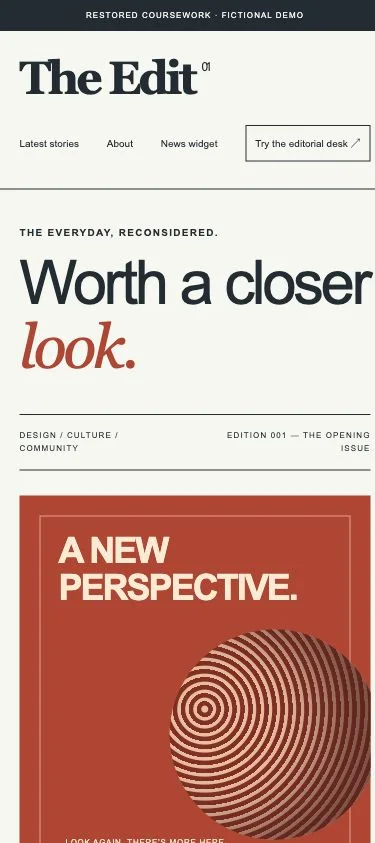
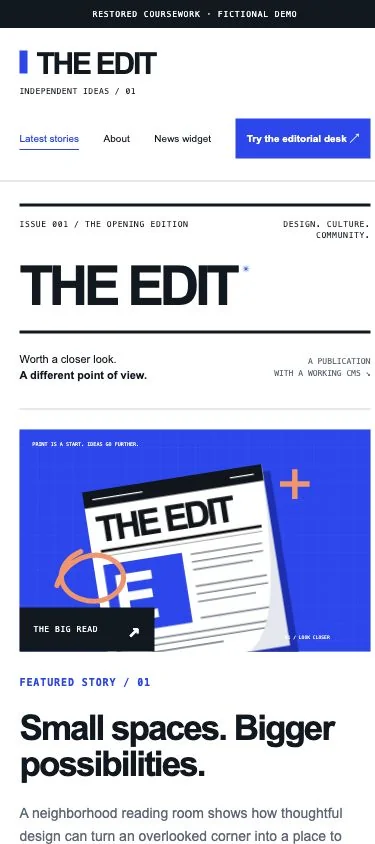
Refresh five project case studies with distinct designs and live screenshots (#19)

diff --git a/src/content/projects/grade-lab.md b/src/content/projects/grade-lab.md
@@ -1,9 +1,9 @@
 ---
-title: "Grade Lab"
-description: "An Angular GPA calculator with a bold academic dashboard and clear course management."
+title: 'Grade Lab'
+description: 'An Angular GPA calculator with a bold academic dashboard and clear course management.'
 category: 'Web app'
 builtWithAI: true
-tags: ["Angular", "TypeScript", "Forms"]
+tags: ['Angular', 'TypeScript', 'Forms']
 year: 2026
 order: 18
 status: 'Live'
@@ -11,28 +11,30 @@ visual: 'web'
 repository: 'https://github.com/GrimSyntaxCloud/angular-showcase'
 demo: 'https://grimsyntaxcloud.github.io/angular-showcase/grade-lab/'
 image: 'images/projects/grade-lab-home.webp'
-imageAlt: "Grade Lab with cobalt navigation, citrus accents and a course table showing a calculated GPA."
+imageAlt: 'Grade Lab with a forest-green navigation rail, a sage GPA dial, orange accents and a course ledger.'
 imageFit: 'contain'
 screenshots:
   - src: 'images/projects/grade-lab-home.webp'
-    alt: "Grade Lab with cobalt navigation, citrus accents and a course table showing a calculated GPA."
-    caption: 'The refreshed desktop interface preserves the original project workflow.'
-    width: 1265
-    height: 1408
+    alt: 'Grade Lab with a forest-green navigation rail, a sage GPA dial, orange accents and a course ledger.'
+    caption: 'The course ledger and calculated GPA share a structured academic workspace.'
+    width: 1600
+    height: 1352
   - src: 'images/projects/grade-lab-mobile.webp'
-    alt: "Grade Lab on a narrow mobile screen."
+    alt: 'Grade Lab on a narrow mobile screen.'
     caption: 'The opening mobile view, checked for readable content and controls that fit.'
     width: 375
-    height: 843
+    height: 844
 ---
 
 ## The project
 
-Grade Lab gives my Angular GPA-calculator coursework a cobalt-and-citrus academic dashboard. It keeps the original workflow: enter a demo student ID, add courses and grades, calculate a GPA, and clear or remove entries.
+Grade Lab gives my Angular GPA-calculator coursework a forest-green academic dashboard. A persistent navigation rail, a porcelain course ledger and a sage GPA dial separate course entry from the calculated result. Orange marks and short dial transitions add movement without distracting from the numbers. It keeps the original workflow: enter a demo student ID, add courses and grades, calculate a GPA, and clear or remove entries.
 
 Try a fictional student ID from **1007 through 1012**. These IDs open the demo; they are not secure student accounts and do not connect to a school system.
 
 ## How it works
+
+The dial reflects the same calculated result as the numeric GPA. Native CSS effects respect reduced-motion preferences, and system typography avoids external font services.
 
 The calculation uses the original equal-weight grade scale, rather than credit-hour weighting. The recovery fixed the missing C grade, tightened student-ID validation and added clearer input feedback. A B+ remains 3.33 and a C is 2.00.
 

diff --git a/src/content/projects/meme-press.md b/src/content/projects/meme-press.md
@@ -1,9 +1,9 @@
 ---
-title: "Meme Press"
-description: "A playful browser-based image workshop with live captions and downloadable memes."
+title: 'Meme Press'
+description: 'A playful browser-based image workshop with live captions and downloadable memes.'
 category: 'Web app'
 builtWithAI: true
-tags: ["JavaScript", "Canvas", "Accessible UI"]
+tags: ['JavaScript', 'Canvas', 'Accessible UI']
 year: 2026
 order: 15
 status: 'Live'
@@ -11,28 +11,30 @@ visual: 'web'
 repository: 'https://github.com/GrimSyntaxCloud/javascript-showcase'
 demo: 'https://grimsyntaxcloud.github.io/javascript-showcase/meme-press/'
 image: 'images/projects/meme-press-home.webp'
-imageAlt: "Meme Press in cream, ink, yellow and coral with a live caption canvas."
+imageAlt: 'Meme Press in hot pink and ink, with a full-width print bed, tilted image proof and three editing stations.'
 imageFit: 'contain'
 screenshots:
   - src: 'images/projects/meme-press-home.webp'
-    alt: "Meme Press in cream, ink, yellow and coral with a live caption canvas."
-    caption: 'The refreshed desktop interface preserves the original project workflow.'
-    width: 1265
-    height: 1309
+    alt: 'Meme Press in hot pink and ink, with a full-width print bed, tilted image proof and three editing stations.'
+    caption: 'A digital print shop: the image takes center stage above three numbered editing stations.'
+    width: 1392
+    height: 1600
   - src: 'images/projects/meme-press-mobile.webp'
-    alt: "Meme Press on a narrow mobile screen."
+    alt: 'Meme Press on a narrow mobile screen.'
     caption: 'The opening mobile view, checked for readable content and controls that fit.'
     width: 375
-    height: 843
+    height: 844
 ---
 
 ## The project
 
-Meme Press started as my JavaScript meme-creator coursework. The refreshed version gives that small creative tool a print-workshop identity: bold type, bright yellow controls, coral accents and an image canvas at the center.
+Meme Press started as my JavaScript meme-creator coursework. The redesigned tool feels like an independent internet print shop. Hot pink and ink surround a full-width press bed, a tilted paper proof and three numbered editing stations. An original SVG smile, registration marks and an acid-green export button give it a playful personality.
 
 Choose a local JPEG, PNG or WebP, add captions, adjust the text size and download a PNG. Images stay in your browser; there is no upload service, account or API key.
 
 ## How it works
+
+Short paper-arrival and hover effects respect reduced-motion preferences. The design uses native CSS, SVG and system fonts, with no additional libraries or asset subscriptions.
 
 Canvas draws the selected image and wraps captions to fit. Image validation and output-size limits keep the workflow predictable. Downloads use a real PNG Blob, and the sample illustration is made with code rather than a paid image asset.
 

diff --git a/src/content/projects/opus.md b/src/content/projects/opus.md
@@ -1,9 +1,9 @@
 ---
-title: "Opus"
-description: "An Angular composer directory presented as a contemporary concert program."
+title: 'Opus'
+description: 'An Angular composer directory presented as a contemporary concert program.'
 category: 'Web app'
 builtWithAI: true
-tags: ["Angular", "TypeScript", "Reactive search"]
+tags: ['Angular', 'TypeScript', 'Reactive search']
 year: 2026
 order: 19
 status: 'Live'
@@ -11,28 +11,30 @@ visual: 'web'
 repository: 'https://github.com/GrimSyntaxCloud/angular-showcase'
 demo: 'https://grimsyntaxcloud.github.io/angular-showcase/opus/'
 image: 'images/projects/opus-home.webp'
-imageAlt: "Opus composer directory in plum, ivory and gold with a concert-program layout."
+imageAlt: 'Opus with a black-cherry stage, oversized ivory masthead, chartreuse accents and numbered composer program listings.'
 imageFit: 'contain'
 screenshots:
   - src: 'images/projects/opus-home.webp'
-    alt: "Opus composer directory in plum, ivory and gold with a concert-program layout."
-    caption: 'The refreshed desktop interface preserves the original project workflow.'
-    width: 931
-    height: 1600
+    alt: 'Opus with a black-cherry stage, oversized ivory masthead, chartreuse accents and numbered composer program listings.'
+    caption: 'A theatrical opening leads into a numbered composer program and a dedicated search rail.'
+    width: 1600
+    height: 739
   - src: 'images/projects/opus-mobile.webp'
-    alt: "Opus on a narrow mobile screen."
+    alt: 'Opus on a narrow mobile screen.'
     caption: 'The opening mobile view, checked for readable content and controls that fit.'
     width: 375
-    height: 843
+    height: 844
 ---
 
 ## The project
 
-Opus brings a concert-program identity to my Angular composer-directory exercise. Plum, ivory and gold, fine rules and CSS waveform details frame the original five-composer collection.
+Opus turns my Angular composer-directory exercise into a theatrical concert playbill. An oversized ivory masthead sits on a black-cherry stage, crossed by musical staff lines and chartreuse accents. Below, a narrow search rail accompanies a sequence of numbered composer listings, giving the original five-composer collection room to breathe.
 
 Search the directory and open an individual composer to explore their information. The interface includes useful empty-search and missing-record states instead of leaving visitors at a broken detail page.
 
 ## How it works
+
+Original CSS musical motifs and restrained interaction effects support the concert identity, with reduced-motion support and no paid assets.
 
 Reactive search filters the original records as you type. The recovery replaced the old search alert placeholder with a working filter and fixed detail fields that previously displayed literal text. Angular handles the directory and detail navigation; GitHub Pages serves the static build.
 

diff --git a/src/content/projects/the-edit.md b/src/content/projects/the-edit.md
@@ -11,24 +11,31 @@ visual: 'web'
 repository: 'https://github.com/GrimSyntaxCloud/the-edit-cms'
 demo: 'https://salmon-pebble-0af10980f.2.azurestaticapps.net/'
 image: 'images/projects/the-edit-home.webp'
-imageAlt: 'The Edit publication with slate and red accents, oversized headlines and a modern editorial layout.'
+imageAlt: 'The Edit newsroom with an oversized black masthead, cobalt folded-newsprint artwork, orange annotations and numbered stories.'
 imageFit: 'contain'
 screenshots:
   - src: 'images/projects/the-edit-home.webp'
-    alt: 'The Edit publication with slate and red accents, oversized headlines and a modern editorial layout.'
-    caption: 'The redesigned desktop experience.'
-    width: 1600
-    height: 739
+    alt: 'The Edit newsroom with an oversized black masthead, cobalt folded-newsprint artwork, orange annotations and numbered stories.'
+    caption: 'The publication front page: a bold masthead, original newsprint artwork and a numbered story rail.'
+    width: 1425
+    height: 990
   - src: 'images/projects/the-edit-mobile.webp'
     alt: 'The Edit on a narrow mobile screen.'
     caption: 'A closer look at the responsive mobile experience.'
     width: 375
-    height: 843
+    height: 844
+  - src: 'images/projects/the-edit-desk.webp'
+    alt: 'The Edit private editorial desk with a dark publishing sidebar, searchable story table and protected sample articles.'
+    caption: 'Inside a fictional private workspace: publishing tools, protected samples and a visible expiry deadline.'
+    width: 1425
+    height: 990
 ---
 
 ## The project
 
-The Edit recovers the content-management project inside my advanced PHP coursework. A slate-and-red newsroom layout connects a publication-style homepage with a practical editorial desk.
+The Edit recovers the content-management project inside my advanced PHP coursework. The publication opens with an oversized black masthead, original cobalt folded-newsprint artwork, orange annotations and a numbered story rail. Inside the private editorial desk, a dark tool rail keeps publishing controls together while focused forms and mobile record cards make the working screens easier to scan.
+
+The visual treatment uses original SVG artwork, native CSS and restrained effects with reduced-motion support.
 
 Create a private demo workspace, write and edit articles and pages, manage fictional users and roles, upload images, and exchange stories through CSV. The project also includes a latest-article widget and read-only JSON routes. The recovery completes the original intended CSV import/export workflow and fixes its broken methods.
 

diff --git a/src/content/projects/field-weather.md b/src/content/projects/field-weather.md
@@ -11,24 +11,26 @@ visual: 'web'
 repository: 'https://github.com/GrimSyntaxCloud/javascript-showcase'
 demo: 'https://lively-tree-03a3d9f0f.5.azurestaticapps.net/'
 image: 'images/projects/field-weather-home.webp'
-imageAlt: 'FIELD weather dashboard in charcoal and ice blue with lime accents and current conditions.'
+imageAlt: 'FIELD weather display with an indigo and teal sky, oversized temperature, curved horizon and a translucent city-search rail.'
 imageFit: 'contain'
 screenshots:
   - src: 'images/projects/field-weather-home.webp'
-    alt: 'FIELD weather dashboard in charcoal and ice blue with lime accents and current conditions.'
-    caption: 'The redesigned desktop experience.'
+    alt: 'FIELD weather display with an indigo and teal sky, oversized temperature, curved horizon and a translucent city-search rail.'
+    caption: 'A panoramic weather instrument with a dedicated search rail and an illustrated horizon.'
     width: 1600
     height: 739
   - src: 'images/projects/field-weather-mobile.webp'
     alt: 'FIELD on a narrow mobile screen.'
     caption: 'A closer look at the responsive mobile experience.'
     width: 375
-    height: 843
+    height: 812
 ---
 
 ## The project
 
-FIELD restores the intent of my original weather widget after its old API services stopped being suitable. A charcoal instrument-panel layout uses ice-blue weather artwork, lime accents and clear measurements to make the conditions easy to scan.
+FIELD restores the intent of my original weather widget after its old API services stopped being suitable. The interface becomes a window onto an indigo and teal sky: an oversized temperature sits above a curved horizon, with city search in a translucent side rail and the supporting measurements in a separate row. Original CSS weather artwork responds to the reported condition; it is an atmospheric illustration, not another source of forecast data.
+
+A sky-motion control pauses the ambient effects, and reduced-motion preferences are respected. The artwork and animation use native CSS without adding a library or paid asset.
 
 Search a city, view the weather and switch between Fahrenheit/mph and Celsius/km/h. An optional location button asks for browser permission only when you choose it; manual city search works without that permission.
 
